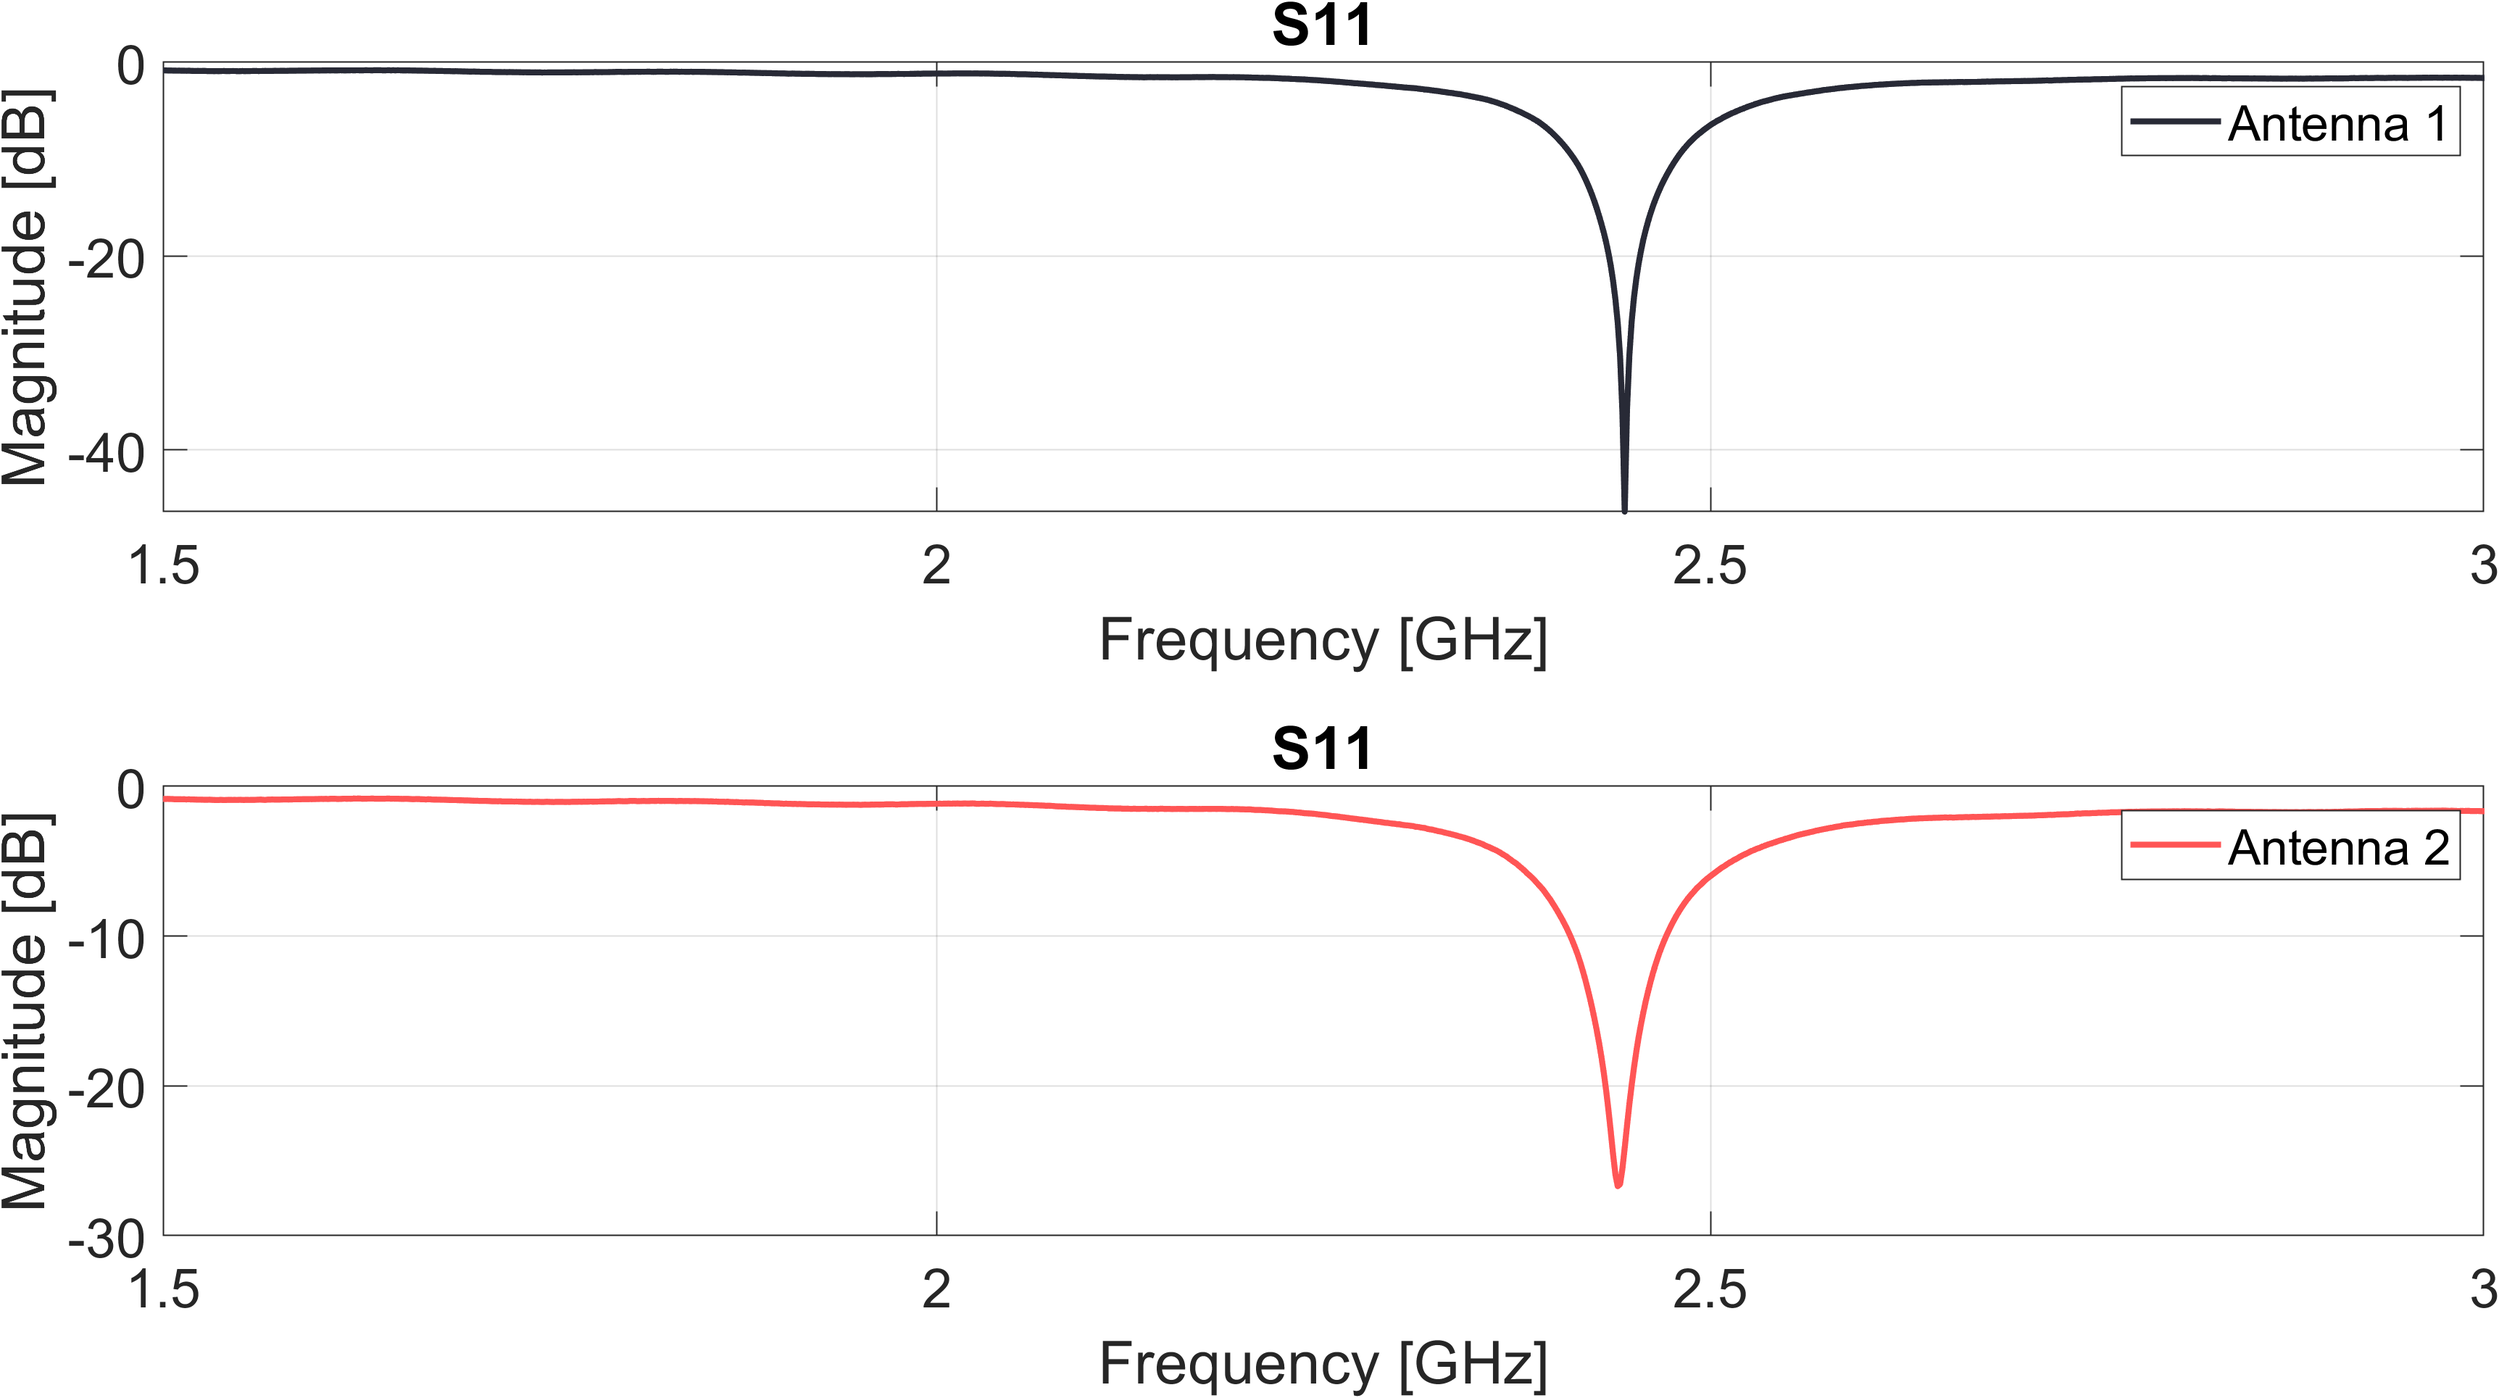
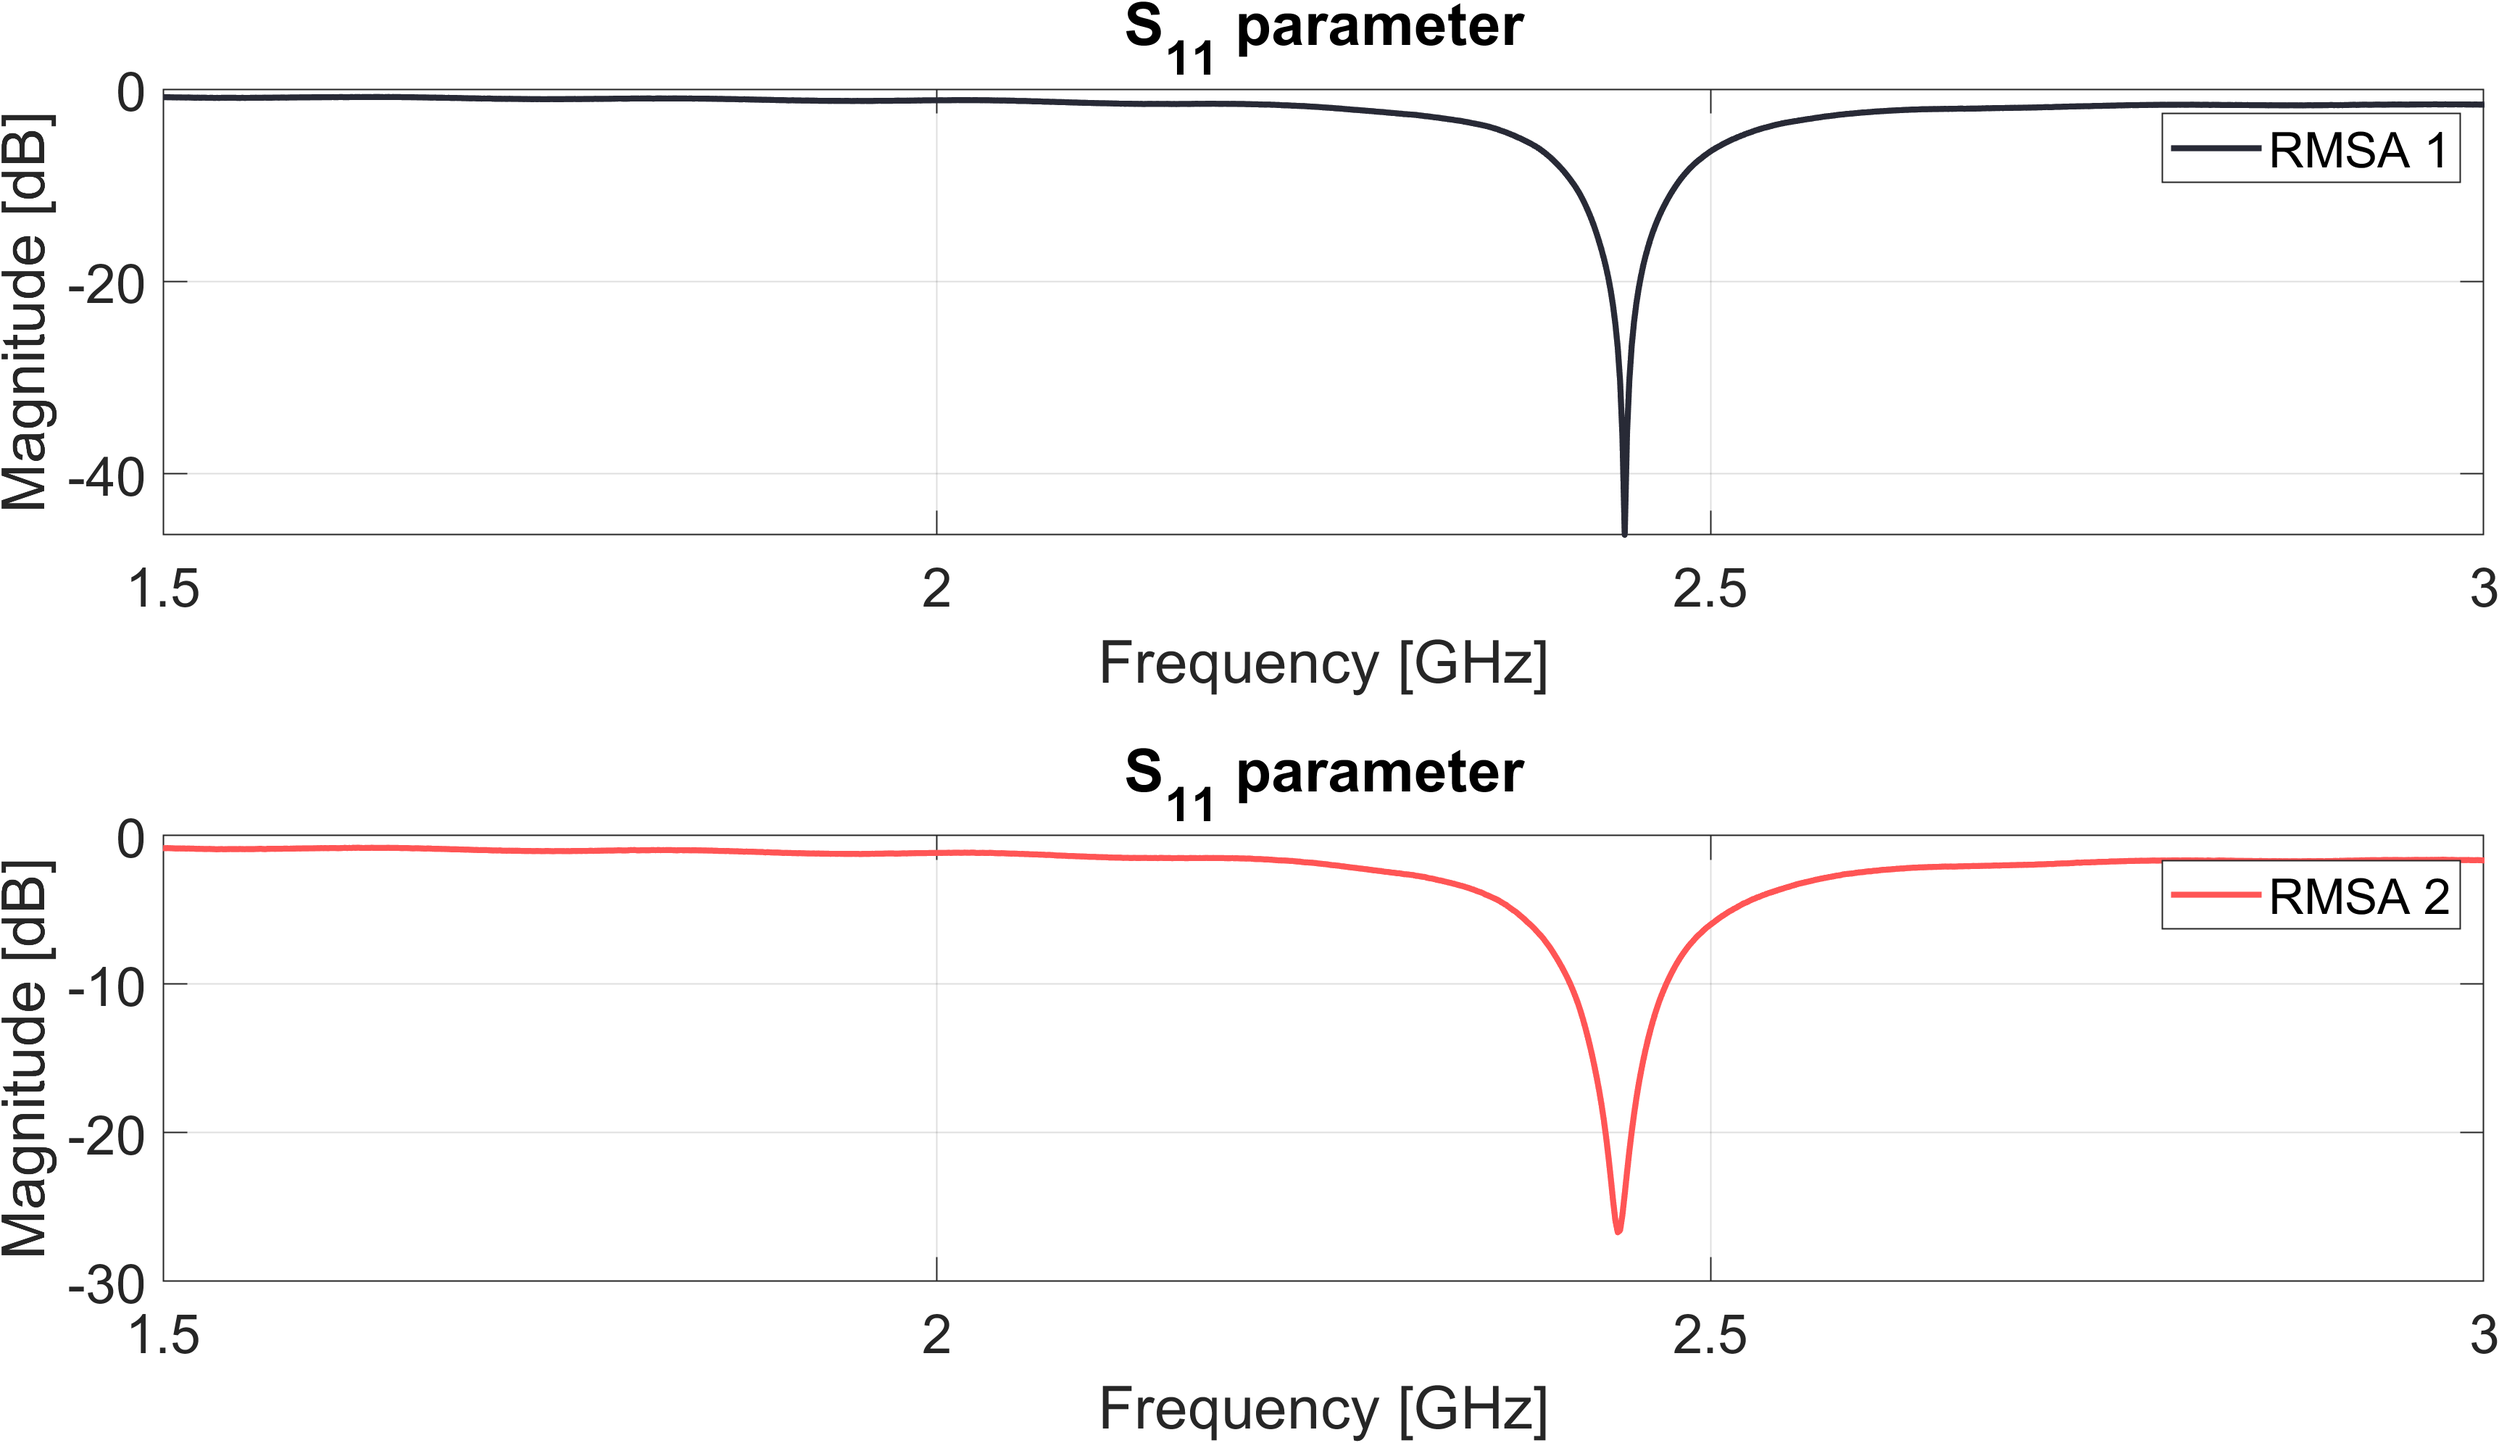
more plot fixes

diff --git a/test_data/antenna_array/s11_smith_swr/antenna_array_s11_swr_plot_script.m b/test_data/antenna_array/s11_smith_swr/antenna_array_s11_swr_plot_script.m
@@ -12,7 +12,7 @@ T3.freq = T3.freq*1e-9;
 T4.freq = T4.freq*1e-9;
 
 % Set figure size to 1920x1080 pixels
-FigH = figure('Position', get(0, 'Screensize'));
+FigH = figure('WindowState','fullscreen');
 
 % Create the tiled layout
 t = tiledlayout(2, 1);
@@ -24,9 +24,9 @@ p1.LineWidth = 2;
 p1.Color = '#282a36';
 xlabel('Frequency [GHz]', 'FontSize', 12);
 ylabel('Magnitude [dB]', 'FontSize', 12);
-title('S11');
+title('S_{11} parameter');
 set(gca, 'FontSize', 18);
-legend('Antenna 1');
+legend('RMSA 1');
 grid on;
 
 % Second plot
@@ -36,16 +36,16 @@ p2.LineWidth = 2;
 p2.Color = '#ff5555';
 xlabel('Frequency [GHz]', 'FontSize', 12);
 ylabel('Magnitude [dB]', 'FontSize', 12);
-title('S11');
+title('S_{11} parameter');
 set(gca, 'FontSize', 18);
-legend('Antenna 2');
+legend('RMSA 2');
 grid on;
 
 % Export the figure
 exportgraphics(t, 'C:\Users\johba\esd5_project\gitfigures\appendix\antenna_tests\antenna_array_s11_test_1.png', 'Resolution', 300); % 1920x1080 pixels
 
 % Set figure size to 1920x1080 pixels
-FigH = figure('Position', get(0, 'Screensize'));
+FigH = figure('WindowState','fullscreen');
 q = tiledlayout(2,1);
 nexttile
 p3 = plot(T3.freq, T3.dB);
@@ -53,9 +53,9 @@ p3.LineWidth = 2;
 p3.Color = '#ffb86c'
 xlabel('Frequency [GHz]','FontSize',12);
 ylabel('Magnitude [dB]','FontSize',12);
-title('S11')
+title('S_{11} parameter')
 set(gca,'FontSize',18)
-legend('Antenna 3');
+legend('RMSA 3');
 grid on
 nexttile
 p4 = plot(T4.freq, T4.dB);
@@ -63,9 +63,9 @@ p4.LineWidth = 2;
 p4.Color = '#6272a4'
 xlabel('Frequency [GHz]','FontSize',12);
 ylabel('Magnitude [dB]','FontSize',12);
-title('S11')
+title('S_{11} parameter')
 set(gca,'FontSize',18)
-legend('Antenna 4');
+legend('RMSA 4');
 grid on
 exportgraphics(q, 'C:\Users\johba\esd5_project\gitfigures\appendix\antenna_tests\antenna_array_s11_test_2.png', 'Resolution', 300); % 1920x1080 pixels
 %% Plot for SWR test of final antenna
@@ -78,53 +78,69 @@ p1.LineWidth = 2;
 xlabel('Frequency [GHz]','FontSize',12);
 title('SWR');
 grid on
-%% Plot for S11 of previous iterations of antenna designs
+%% Plots for S11 test of initial antenna
 close all
 clear
+T1 = readtable('final_s11_1.CSV');
+T2 = readtable('final_s11_2.CSV');
+T3 = readtable('final_s11_3.CSV');
+T4 = readtable('final_s11_4.CSV');
 
-T1 = readtable('previous_s11_1.CSV');
-T2 = readtable('previous_s11_2.CSV');
-T3 = readtable('previous_s11_3.CSV');
-T4 = readtable('previous_s11_4.CSV');
+T1.freq = T1.freq*1e-9;
+T2.freq = T2.freq*1e-9;
+T3.freq = T3.freq*1e-9;
+T4.freq = T4.freq*1e-9;
 
-figure
-subplot(2,2,1);
+% Set figure size to 1920x1080 pixels
+FigH = figure('WindowState','fullscreen');
+
+% Create the tiled layout
+t = tiledlayout(2, 1);
+
+% First plot
+nexttile
 p1 = plot(T1.freq, T1.dB);
 p1.LineWidth = 2;
-p1.Color = '#282a36';
-xlabel('Frequency [GHz]','FontSize',12);
-ylabel('Magnitude [dB]','FontSize',12);
-lgd = legend('Antenna1');
-title('S11')
-lgd.FontSize = 14;
-grid on
-subplot(2,2,2);
+xlabel('Frequency [GHz]', 'FontSize', 12);
+ylabel('Magnitude [dB]', 'FontSize', 12);
+title('S_{11} parameter');
+set(gca, 'FontSize', 18);
+legend('RMSA 1');
+grid on;
+
+% Second plot
+nexttile
 p2 = plot(T2.freq, T2.dB);
 p2.LineWidth = 2;
-p2.Color = '#ff5555';
-xlabel('Frequency [GHz]','FontSize',12);
-ylabel('Magnitude [dB]','FontSize',12);
-lgd = legend('Antenna2');
-title('S11')
-lgd.FontSize = 14;
-grid on
-subplot(2,2,3);
+xlabel('Frequency [GHz]', 'FontSize', 12);
+ylabel('Magnitude [dB]', 'FontSize', 12);
+title('S_{11} parameter');
+set(gca, 'FontSize', 18);
+legend('RMSA 2');
+grid on;
+
+% Export the figure
+exportgraphics(t, 'C:\Users\johba\esd5_project\gitfigures\appendix\antenna_tests\antenna_array_s11_test_initial_1.png', 'Resolution', 300); % 1920x1080 pixels
+
+% Set figure size to 1920x1080 pixels
+FigH = figure('WindowState','fullscreen');
+q = tiledlayout(2,1);
+nexttile
 p3 = plot(T3.freq, T3.dB);
 p3.LineWidth = 2;
-p3.Color = '#ffb86c'
 xlabel('Frequency [GHz]','FontSize',12);
 ylabel('Magnitude [dB]','FontSize',12);
-lgd = legend('Antenna3');
-title('S11')
-lgd.FontSize = 14;
+title('S_{11} parameter')
+set(gca,'FontSize',18)
+legend('RMSA 3');
 grid on
-subplot(2,2,4);
+nexttile
 p4 = plot(T4.freq, T4.dB);
 p4.LineWidth = 2;
-p4.Color = '#6272a4'
 xlabel('Frequency [GHz]','FontSize',12);
 ylabel('Magnitude [dB]','FontSize',12);
-lgd = legend('Antenna4');
-title('S11')
-lgd.FontSize = 14;
+title('S_{11} parameter')
+set(gca,'FontSize',18)
+legend('RMSA 4');
 grid on
+exportgraphics(q, 'C:\Users\johba\esd5_project\gitfigures\appendix\antenna_tests\antenna_array_s11_test_initial_2.png', 'Resolution', 300); % 1920x1080 pixels

diff --git a/rf_front_end/bandpass_filter/matlab_plot_scripts/bandpass_plot_script_with_tolerances.m b/rf_front_end/bandpass_filter/matlab_plot_scripts/bandpass_plot_script_with_tolerances.m
@@ -8,8 +8,7 @@ R3 = R(739:1107,:);
 R4 = R(1108:1476,:);
 R5 = R(1477:1845,:);
 
-N = -3+max(R1.Var2);
-[~,closestIndex] = min(abs(N-R1));
+FigH = figure('WindowState','fullscreen');
 s = semilogx(R1.(1)*1E-9, R1.(2));
 s(1).LineWidth = 1.4;
 hold on
@@ -35,3 +34,4 @@ for i = 1:length(range)
 end
 legend(flip(formattedStrings),'Location','northwest')
 title('Tolerance simulation of bandpass filter')
+exportgraphics(FigH,"C:\Users\johba\esd5_project\gitfigures\system_design\rf_front_end\bandpass_filter\bandpass_filter_with_tolerances.jpg", 'Resolution', 300); % 1920x1080 pixels
